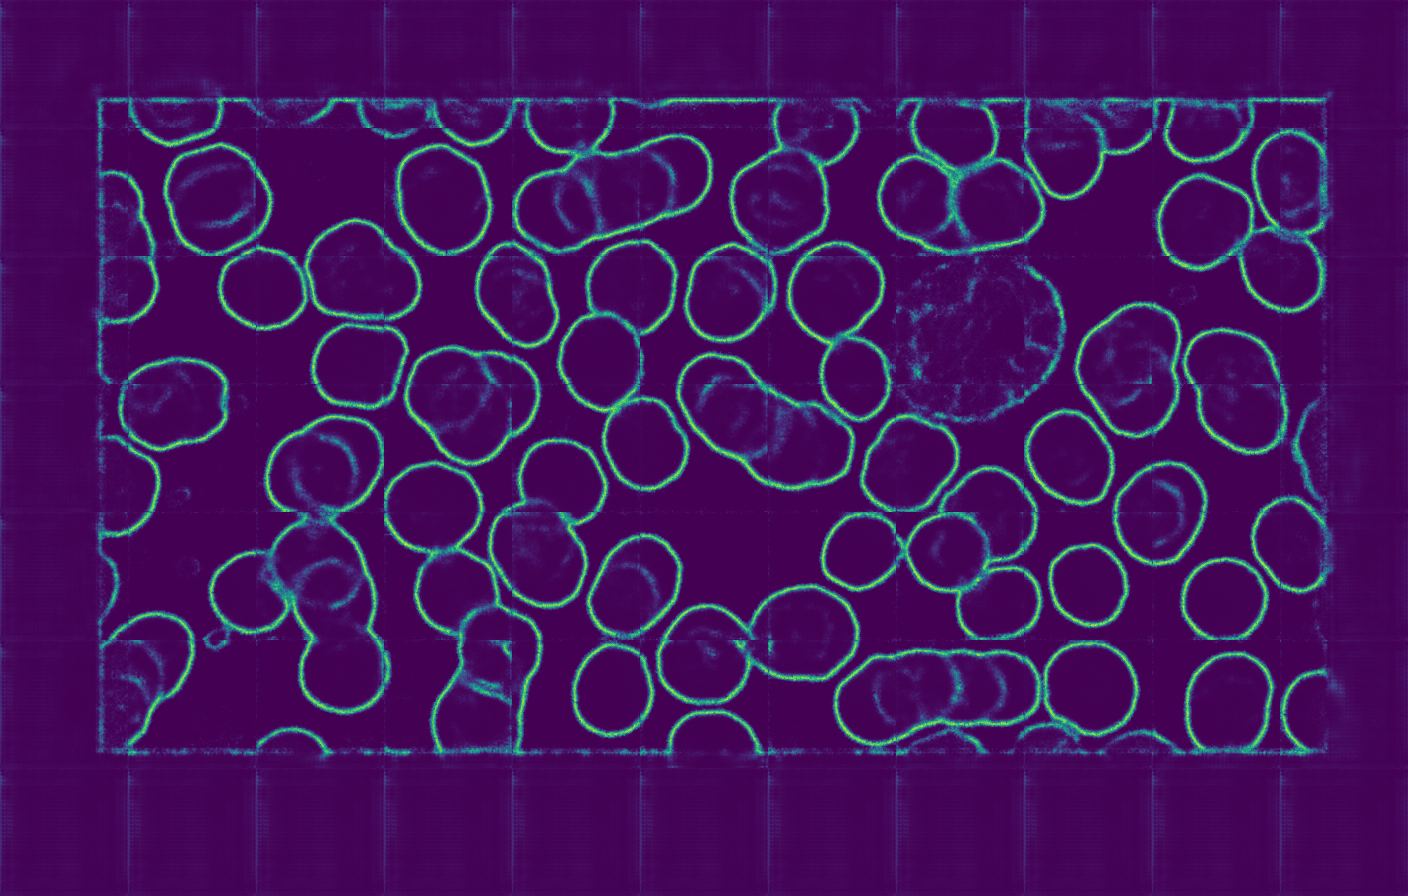
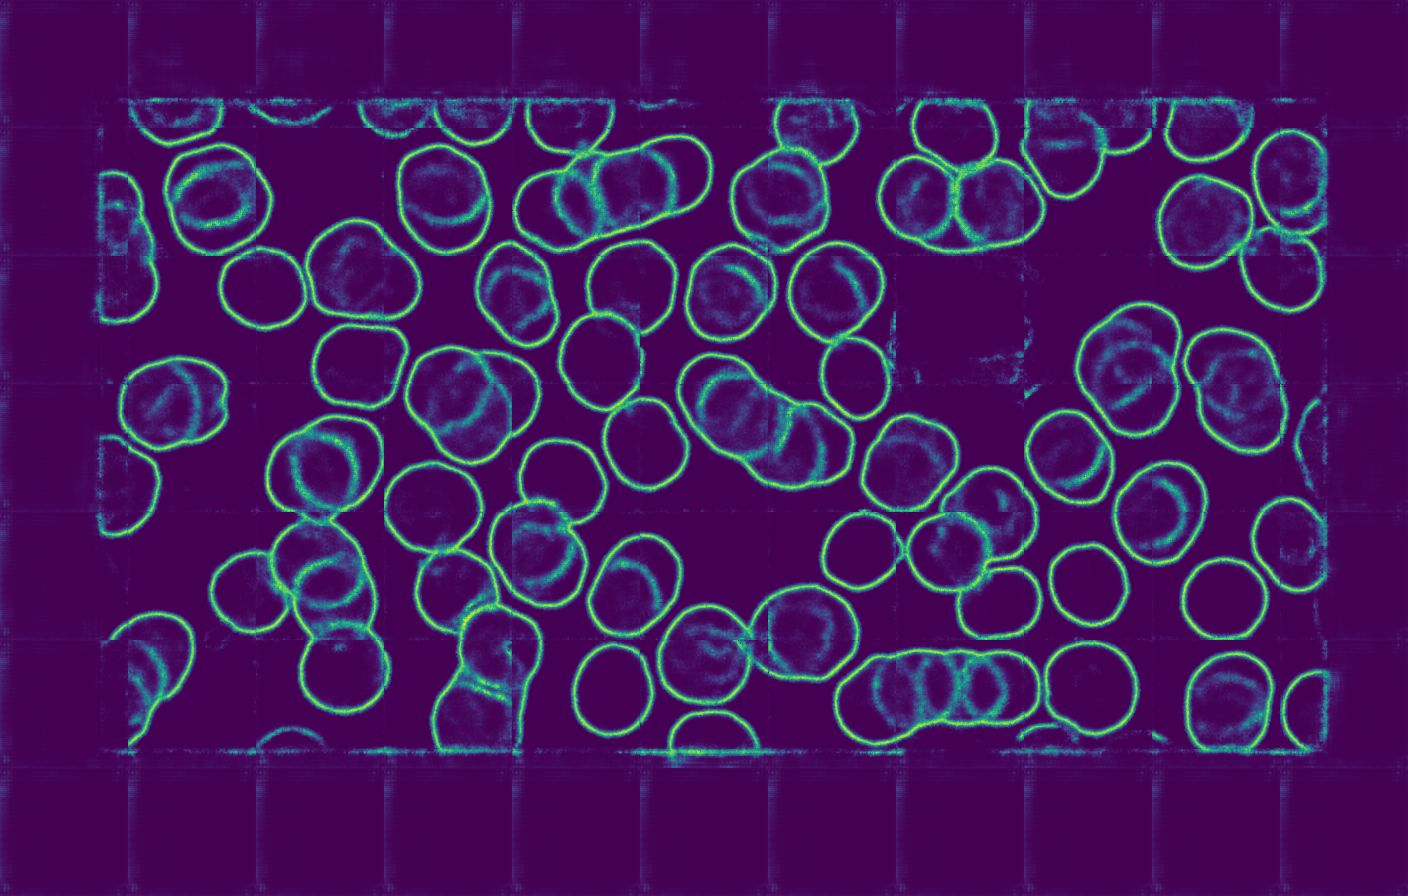
Added best weights fusing binary crossentropy loss function!

Changed region(s): [[0.0625, 0.0938, 0.9688, 0.875], [0.7812, 0.7188, 0.8125, 0.75], [0.4375, 0.5312, 0.4688, 0.5625]]

diff --git a/src/run.py b/src/run.py
@@ -238,7 +238,7 @@ def count_circles(img='edge.png'):
 # main program
 if __name__ == '__main__':
     # train('binary_crossentropy_128')
-    # evaluate(model_name='binary_crossentropy')
+    evaluate(model_name='binary_crossentropy')
     predict(model_name='binary_crossentropy_128', img='Im037_0.jpg')
     threshold(img='mask.png')
     threshold(img='edge.png')
